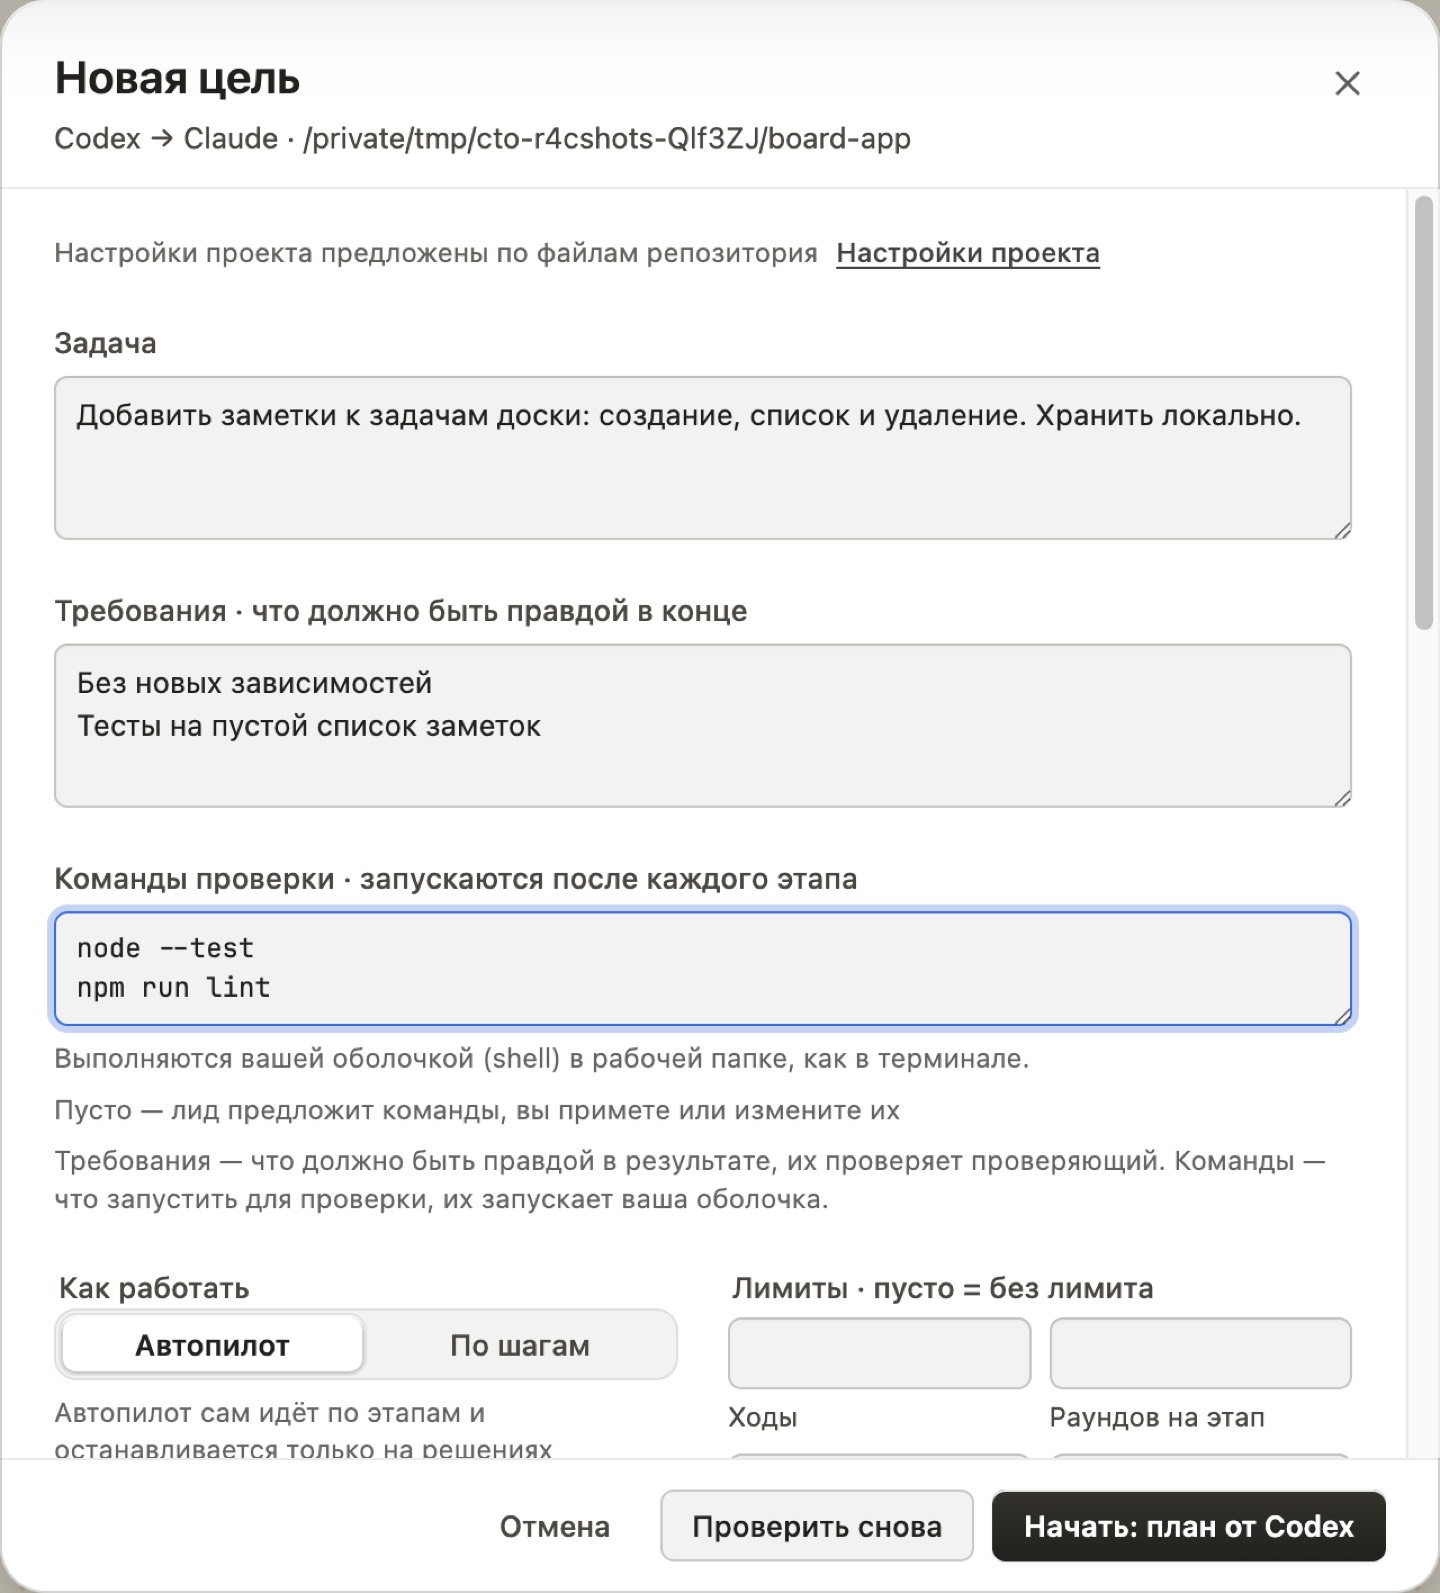
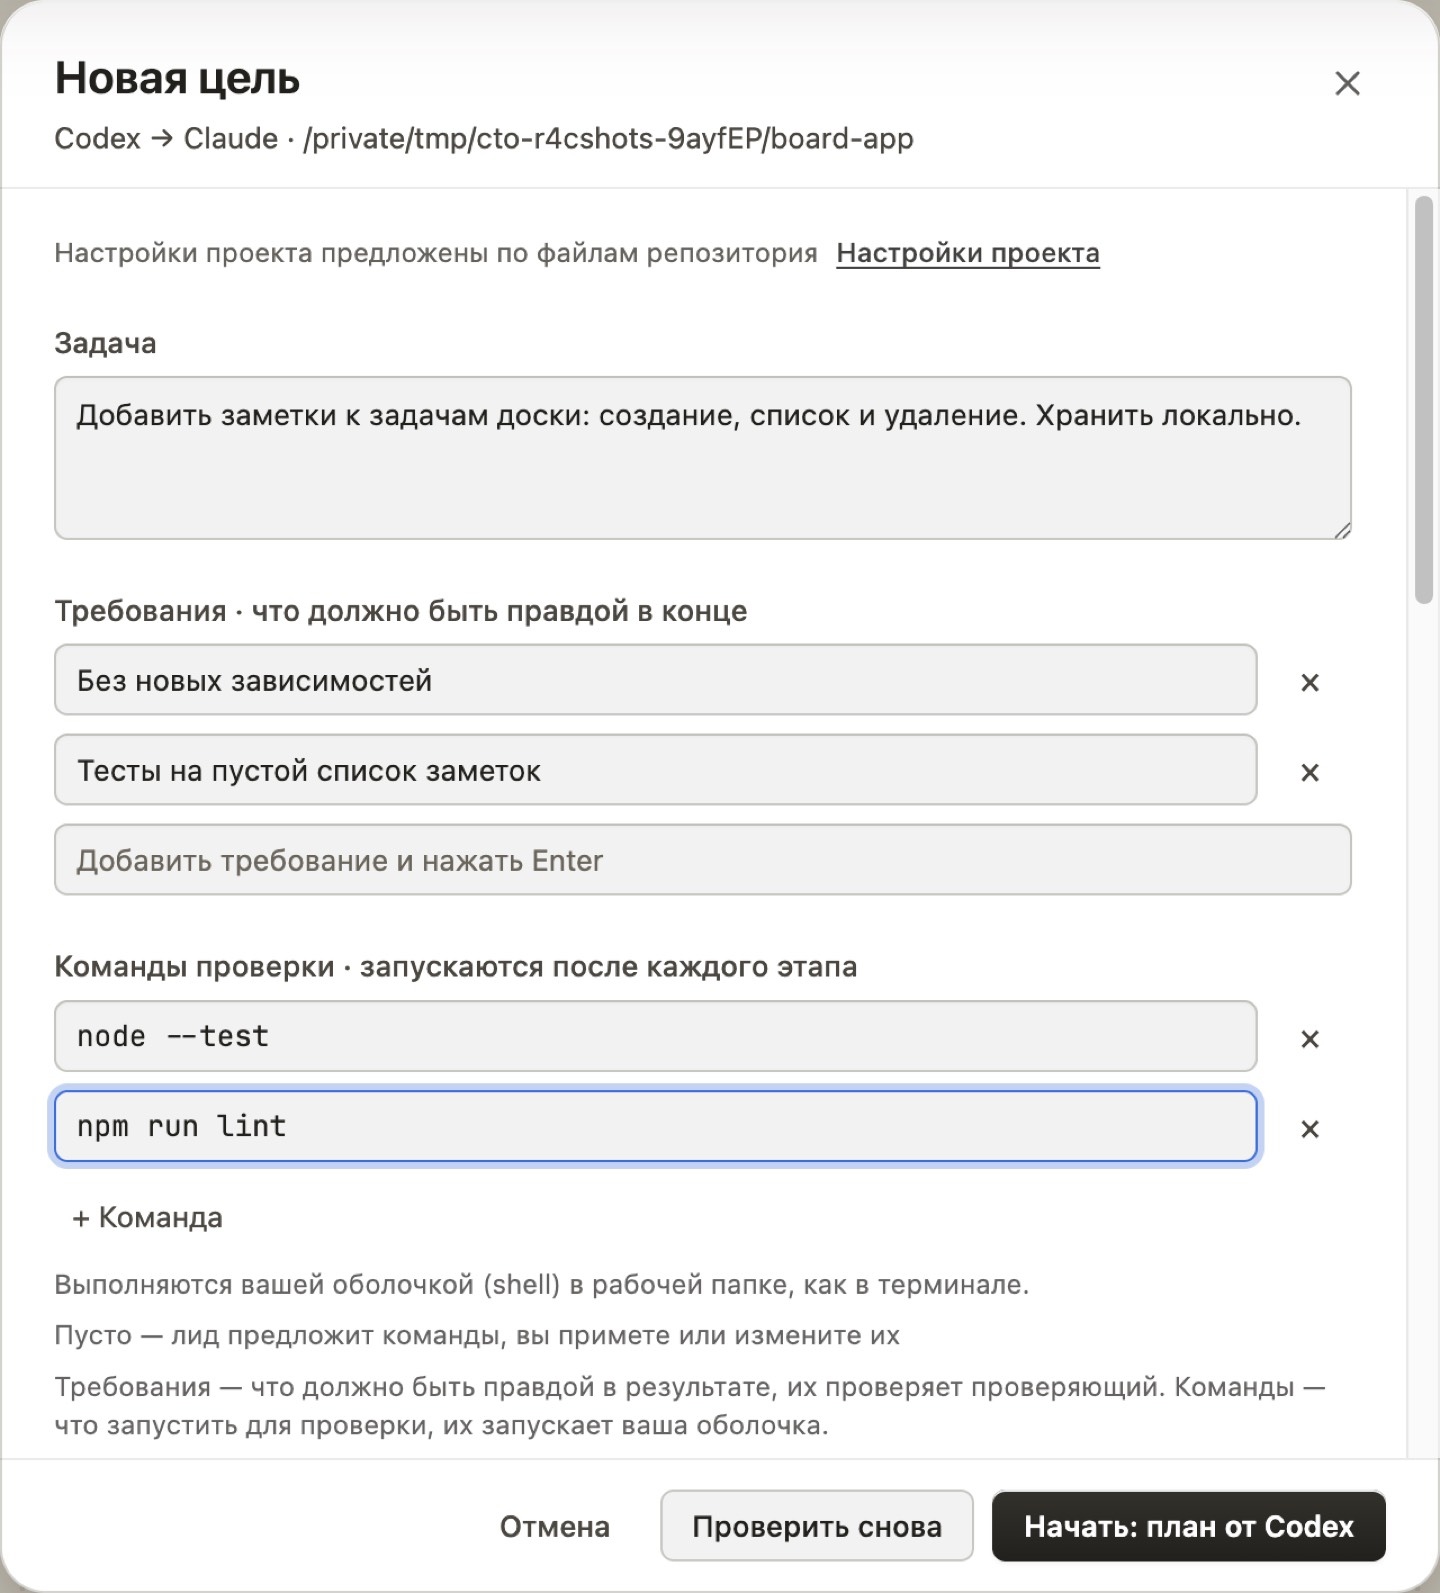
feat(redesign): R5f goal dialog — requirements and check commands as rows with a remove button and a "+ Command" button instead of textareas; the scripts fill rows through one kit helper

diff --git a/src/renderer/src/features/orchestration/OrchestrationDialogs.tsx b/src/renderer/src/features/orchestration/OrchestrationDialogs.tsx
@@ -14,7 +14,7 @@ import { ProjectSettings } from "./ProjectSettings";
 import { NO_MODELS, RoleModelsField } from "./RoleModels";
 import { profileGoal } from "../../../../shared/taskBoard";
 import { Differences, RunPanel, Termed } from "./RunPanel";
-import { accessProblemText, commandLike, dirtyInPlace, failingOnSource, liveRuns, shownRunId } from "./runModel";
+import { accessProblemText, commandLike, dirtyInPlace, failingOnSource, goalLines, goalRows, liveRuns, shownRunId } from "./runModel";
 import type { AgentCanvasUi } from "./useAgentCanvasUi";
 import { outcomeText, type Orchestration } from "./useOrchestration";
 
@@ -268,6 +268,55 @@ function Readiness({ linkId, commands, workMode, models, access, locale, onChang
 }
 
 // The project profile of a link's lead project (stage 13): loaded when the dialog opens, saved from the settings.
+// R5f (D-023): requirements and check commands as rows (the text stays the state, one line per row). Requirements keep an
+// always-present empty input at the end; commands add a row with the "+" button. Enter on the last row goes to / adds the
+// next one, Backspace in an empty row removes it and focuses the previous.
+function GoalRows({ text, onText, locale, attr, placeholder, mono = false, addLabel }: {
+  text: string; onText: (text: string) => void; locale: LocaleId; attr: string; placeholder: string; mono?: boolean; addLabel?: string;
+}): React.JSX.Element {
+  const trailing = !addLabel;
+  const stored = goalRows(text, trailing);
+  const rows = trailing ? [...stored, ""] : stored;
+  const root = useRef<HTMLDivElement>(null);
+  const focusAt = useRef<number | null>(null);
+  const focus = (i: number) => root.current?.querySelectorAll<HTMLInputElement>("[data-orch-row] input")[i]?.focus();
+  useEffect(() => {
+    if (focusAt.current === null) return;
+    focus(focusAt.current);
+    focusAt.current = null;
+  });
+  const put = (next: string[], focus?: number) => { focusAt.current = focus ?? null; onText(next.join("\n")); };
+  const onKey = (event: React.KeyboardEvent<HTMLInputElement>, i: number) => {
+    if (event.key === "Enter") {
+      event.preventDefault(); // Enter is a row's end, not the form's submit
+      if (!rows[i]?.trim()) return;
+      if (i < rows.length - 1) focus(i + 1); // the trailing input or the next row
+      else put([...stored, ""], i + 1);
+    } else if (event.key === "Backspace" && rows[i] === "" && rows.length > 1 && !(trailing && i === rows.length - 1 && stored.length === 0)) {
+      event.preventDefault();
+      if (trailing && i === rows.length - 1) { focus(i - 1); return; }
+      put(stored.filter((_, k) => k !== i), Math.max(0, i - 1));
+    }
+  };
+  return (
+    <div className="orch-rows" {...{ [attr]: "" }} ref={root}>
+      {rows.map((row, i) => (
+        // biome-ignore lint/suspicious/noArrayIndexKey: rows are positional; the trailing input keeps its element (and focus) when it becomes a row
+        <div className="orch-rows__row" key={i} data-orch-row>
+          <input type="text" value={row} spellCheck={false} placeholder={i === rows.length - 1 && (trailing || !row) ? placeholder : undefined}
+            className={mono ? "orch-rows__mono" : undefined} onKeyDown={(e) => onKey(e, i)}
+            onChange={(e) => { const next = [...stored]; next[i] = e.target.value; put(next); }} />
+          {(i < stored.length) && (
+            <button type="button" className="orch-rows__x" aria-label={t(locale, "orchGoalRowRemove")}
+              onClick={() => put(stored.filter((_, k) => k !== i), Math.max(0, i - 1))}>×</button>
+          )}
+        </div>
+      ))}
+      {addLabel && <button type="button" className="orch-rows__add" data-orch-add onClick={() => put([...stored, ""], stored.length)}>+ {addLabel}</button>}
+    </div>
+  );
+}
+
 function useProfile(linkId: string | undefined) {
   const [state, setState] = useState<{ kind: "loading" } | { kind: "error"; code: string } | { kind: "ready"; info: OrchestrationProfileInfo }>({ kind: "loading" });
   const [attempt, setAttempt] = useState(0);
@@ -339,7 +388,7 @@ function GoalDialog({ orch, ui, locale, folderBusy }: { orch: Orchestration; ui:
   }, [info]);
   if (!link || !lead) return null;
 
-  const commands = commandsText.split("\n").map((c) => c.trim()).filter(Boolean);
+  const commands = goalLines(commandsText);
   const canFinish = workMode !== "copy";
   // push and QA deliver this run's commit: ticking either takes the commit with it
   const chosen = canFinish ? { commit: finish.commit || finish.push || finish.qa, push: finish.push && !!info?.profile.finish.push, qa: finish.qa && !!info?.profile.finish.qa } : null;
@@ -348,7 +397,7 @@ function GoalDialog({ orch, ui, locale, folderBusy }: { orch: Orchestration; ui:
   const asked: OrchestrationGoalInput = {
     ...(optionalChecks ? { models } : {}),
     text: text.trim(),
-    criteria: criteria.split("\n").map((c) => c.trim()).filter(Boolean),
+    criteria: goalLines(criteria),
     checks: [], commands, workMode, mode,
     reviewPlan: mode === "steps" || reviewPlan,
     language: locale === "ru" ? "ru" : "en", // the agents write what the person reads in the interface's language
@@ -445,9 +494,9 @@ function GoalDialog({ orch, ui, locale, folderBusy }: { orch: Orchestration; ui:
           <span>{t(locale, "orchGoalTask")}</span>
           <textarea autoFocus rows={3} value={text} placeholder={t(locale, "orchGoalTaskPlaceholder")} onChange={(e) => setText(e.target.value)} />
         </label>
-        <label className="orch-field">
+        <div className="orch-field">
           <span>{t(locale, "orchGoalCriteria")}</span>
-          <textarea rows={3} value={criteria} placeholder={t(locale, "orchGoalCriteriaPlaceholder")} onChange={(e) => setCriteria(e.target.value)} />
+          <GoalRows text={criteria} onText={setCriteria} locale={locale} attr="data-orch-requirements" placeholder={t(locale, "orchGoalAddRequirement")} />
           {criteria.split("\n").some(commandLike) && (
             <small className="orch-hint orch-hint--warn" data-orch-req-command>
               {t(locale, "orchGoalReqLooksLikeCommand")}{" "}
@@ -459,15 +508,15 @@ function GoalDialog({ orch, ui, locale, folderBusy }: { orch: Orchestration; ui:
               }}>{t(locale, "orchGoalReqMove")}</button>
             </small>
           )}
-        </label>
-        <label className="orch-field">
+        </div>
+        <div className="orch-field">
           <span>{t(locale, "orchGoalCommands")}</span>
-          <textarea rows={2} value={commandsText} spellCheck={false} data-orch-commands placeholder={t(locale, "orchGoalCommandsPlaceholder")}
-            onChange={(e) => { edited.current = true; setCommandsText(e.target.value); }} />
+          <GoalRows text={commandsText} onText={(v) => { edited.current = true; setCommandsText(v); }} locale={locale} attr="data-orch-commands" mono
+            placeholder={t(locale, "orchGoalCommandsPlaceholder")} addLabel={t(locale, "orchGoalAddCommand")} />
           <small className="orch-hint">{t(locale, "orchGoalCommandsHint")}{commandsText.trim() && !edited.current ? ` ${t(locale, "orchGoalCommandsFilled")}` : ""}</small>
           {optionalChecks && <small className="orch-hint" data-orch-commands-optional>{t(locale, "orchCommandsOptional")}</small>}
           <small className="orch-hint" data-orch-commands-vs-req>{t(locale, "orchGoalCommandsVsReq")}</small>
-        </label>
+        </div>
         <div className="orch-goal__how">
           <fieldset className="orch-field orch-runmode" data-orch-runmode={mode}>
             <legend>{t(locale, "orchRunMode")}</legend>
@@ -499,7 +548,7 @@ function GoalDialog({ orch, ui, locale, folderBusy }: { orch: Orchestration; ui:
           accessOverride={accessOverride} onAccessOverride={setAccessOverride} onBlocker={setBlockedBy} onWorkMode={setWorkMode} onFailing={setFailing} checkSlot={footSlot}
           onFix={(target) => {
             if (target === "settings") { setSettingsOpen(true); return; }
-            const field = document.querySelector<HTMLTextAreaElement>(".orch-dialog [data-orch-commands]");
+            const field = document.querySelector<HTMLInputElement>(".orch-dialog [data-orch-commands] input");
             const fold = field?.closest("details");
             if (fold) fold.open = true;
             field?.scrollIntoView({ block: "center" });

diff --git a/src/renderer/src/lib/i18n.ts b/src/renderer/src/lib/i18n.ts
@@ -1265,9 +1265,11 @@ const ru = {
   orchGoalCommands: "Команды проверки · запускаются после каждого этапа",
   orchGoalCommandsHint: "Выполняются вашей оболочкой (shell) в рабочей папке, как в терминале.",
   orchGoalCommandsFilled: "Подставлены по файлам проекта — проверьте и поправьте.",
-  orchGoalCommandsPlaceholder: "По одной команде в строке, например: npm test",
-  orchGoalCriteriaPlaceholder: "По одному требованию в строке, например: функция clamp ограничивает число границами",
-  orchGoalCommandsVsReq: "Требования — что должно быть правдой в результате, их проверяет проверяющий. Команды — что запустить для проверки, их запускает ваша оболочка.",
+  orchGoalCommandsPlaceholder: "Команда, например: npm test",
+  orchGoalRowRemove: "Убрать",
+  orchGoalAddRequirement: "Добавить требование и нажать Enter",
+  orchGoalAddCommand: "Команда",
+    orchGoalCommandsVsReq: "Требования — что должно быть правдой в результате, их проверяет проверяющий. Команды — что запустить для проверки, их запускает ваша оболочка.",
   orchAdvRights: "права",
   orchAdvModels: "модели",
   orchAdvModelsSet: "заданы",
@@ -3779,9 +3781,11 @@ const en: Record<keyof typeof ru, string> = {
   orchGoalCommands: "Check commands · run after every stage",
   orchGoalCommandsHint: "Run by your shell in the work folder, as in a terminal.",
   orchGoalCommandsFilled: "Proposed from the project's files — review and edit.",
-  orchGoalCommandsPlaceholder: "One command per line, for example: npm test",
-  orchGoalCriteriaPlaceholder: "One requirement per line, for example: the clamp function limits a number to its bounds",
-  orchGoalCommandsVsReq: "Requirements are what must be true of the result; the reviewer checks them. Commands are what to run to check it; your shell runs them.",
+  orchGoalCommandsPlaceholder: "A command, for example: npm test",
+  orchGoalRowRemove: "Remove",
+  orchGoalAddRequirement: "Add a requirement and press Enter",
+  orchGoalAddCommand: "Command",
+    orchGoalCommandsVsReq: "Requirements are what must be true of the result; the reviewer checks them. Commands are what to run to check it; your shell runs them.",
   orchAdvRights: "rights",
   orchAdvModels: "models",
   orchAdvModelsSet: "set",

diff --git a/src/renderer/src/styles/app.css b/src/renderer/src/styles/app.css
@@ -1857,3 +1857,14 @@ button { border: 0; }
 .ws-list li > button { flex: 0 0 auto; padding: .25em .8em; border: 1px solid var(--border-strong); border-radius: 6px; color: var(--text-primary); background: transparent; font-weight: 600; cursor: pointer; }
 .orch-dialog--pinned .orch-advanced > * + * { margin-top: 16px; }
 .orch-dialog--pinned .orch-advanced > summary + * { margin-top: 12px; }
+
+/* R5f goal rows: requirements and check commands as rows (D-023) */
+.orch-rows { display: flex; flex-direction: column; gap: 8px; min-width: 0; }
+.orch-rows .orch-rows__row { display: flex; align-items: center; gap: 4px; min-width: 0; }
+.orch-rows .orch-rows__row input { flex: 1 1 auto; min-width: 0; }
+.orch-field .orch-rows .orch-rows__mono { font-family: var(--font-mono); font-size: 13px; }
+.orch-rows button.orch-rows__x, .orch-rows button.orch-rows__add { flex: 0 0 auto; border: 0; background: transparent; box-shadow: none; color: var(--text-secondary); font: inherit; cursor: pointer; border-radius: var(--radius-sm); }
+.orch-rows button.orch-rows__x { min-width: var(--control-h-m); min-height: var(--control-h-m); font-size: 16px; line-height: 1; }
+.orch-rows button.orch-rows__add { align-self: flex-start; min-height: var(--control-h-m); padding: 0 8px; }
+.orch-rows button.orch-rows__x:hover, .orch-rows button.orch-rows__add:hover { background: transparent; color: var(--text-primary); }
+.orch-rows button.orch-rows__x:focus-visible, .orch-rows button.orch-rows__add:focus-visible { outline: 0; box-shadow: 0 0 0 3px color-mix(in srgb, var(--focus) 30%, transparent); }

diff --git a/src/renderer/src/features/orchestration/runModel.ts b/src/renderer/src/features/orchestration/runModel.ts
@@ -1180,3 +1180,11 @@ export function dirtyInPlace(workMode: string, items: readonly OrchestrationRead
 }
 export const failingOnSource = (items: readonly OrchestrationReadinessItem[]): string[] =>
   items.filter((i) => /^source_\d+$/.test(i.id) && i.facts?.result === "failed").map((i) => String(i.facts?.command ?? "")).filter(Boolean);
+
+// The goal dialog keeps requirements and check commands as lines of one text; what is sent is the trimmed non-empty lines.
+export const goalLines = (text: string): string[] => text.split("\n").map((l) => l.trim()).filter(Boolean);
+// The rows an editor shows for that text; with `trailing` the last empty row is left to the always-present empty input.
+export function goalRows(text: string, trailing: boolean): string[] {
+  const rows = text === "" ? (trailing ? [] : [""]) : text.split("\n");
+  return trailing && rows.at(-1) === "" ? rows.slice(0, -1) : rows;
+}
